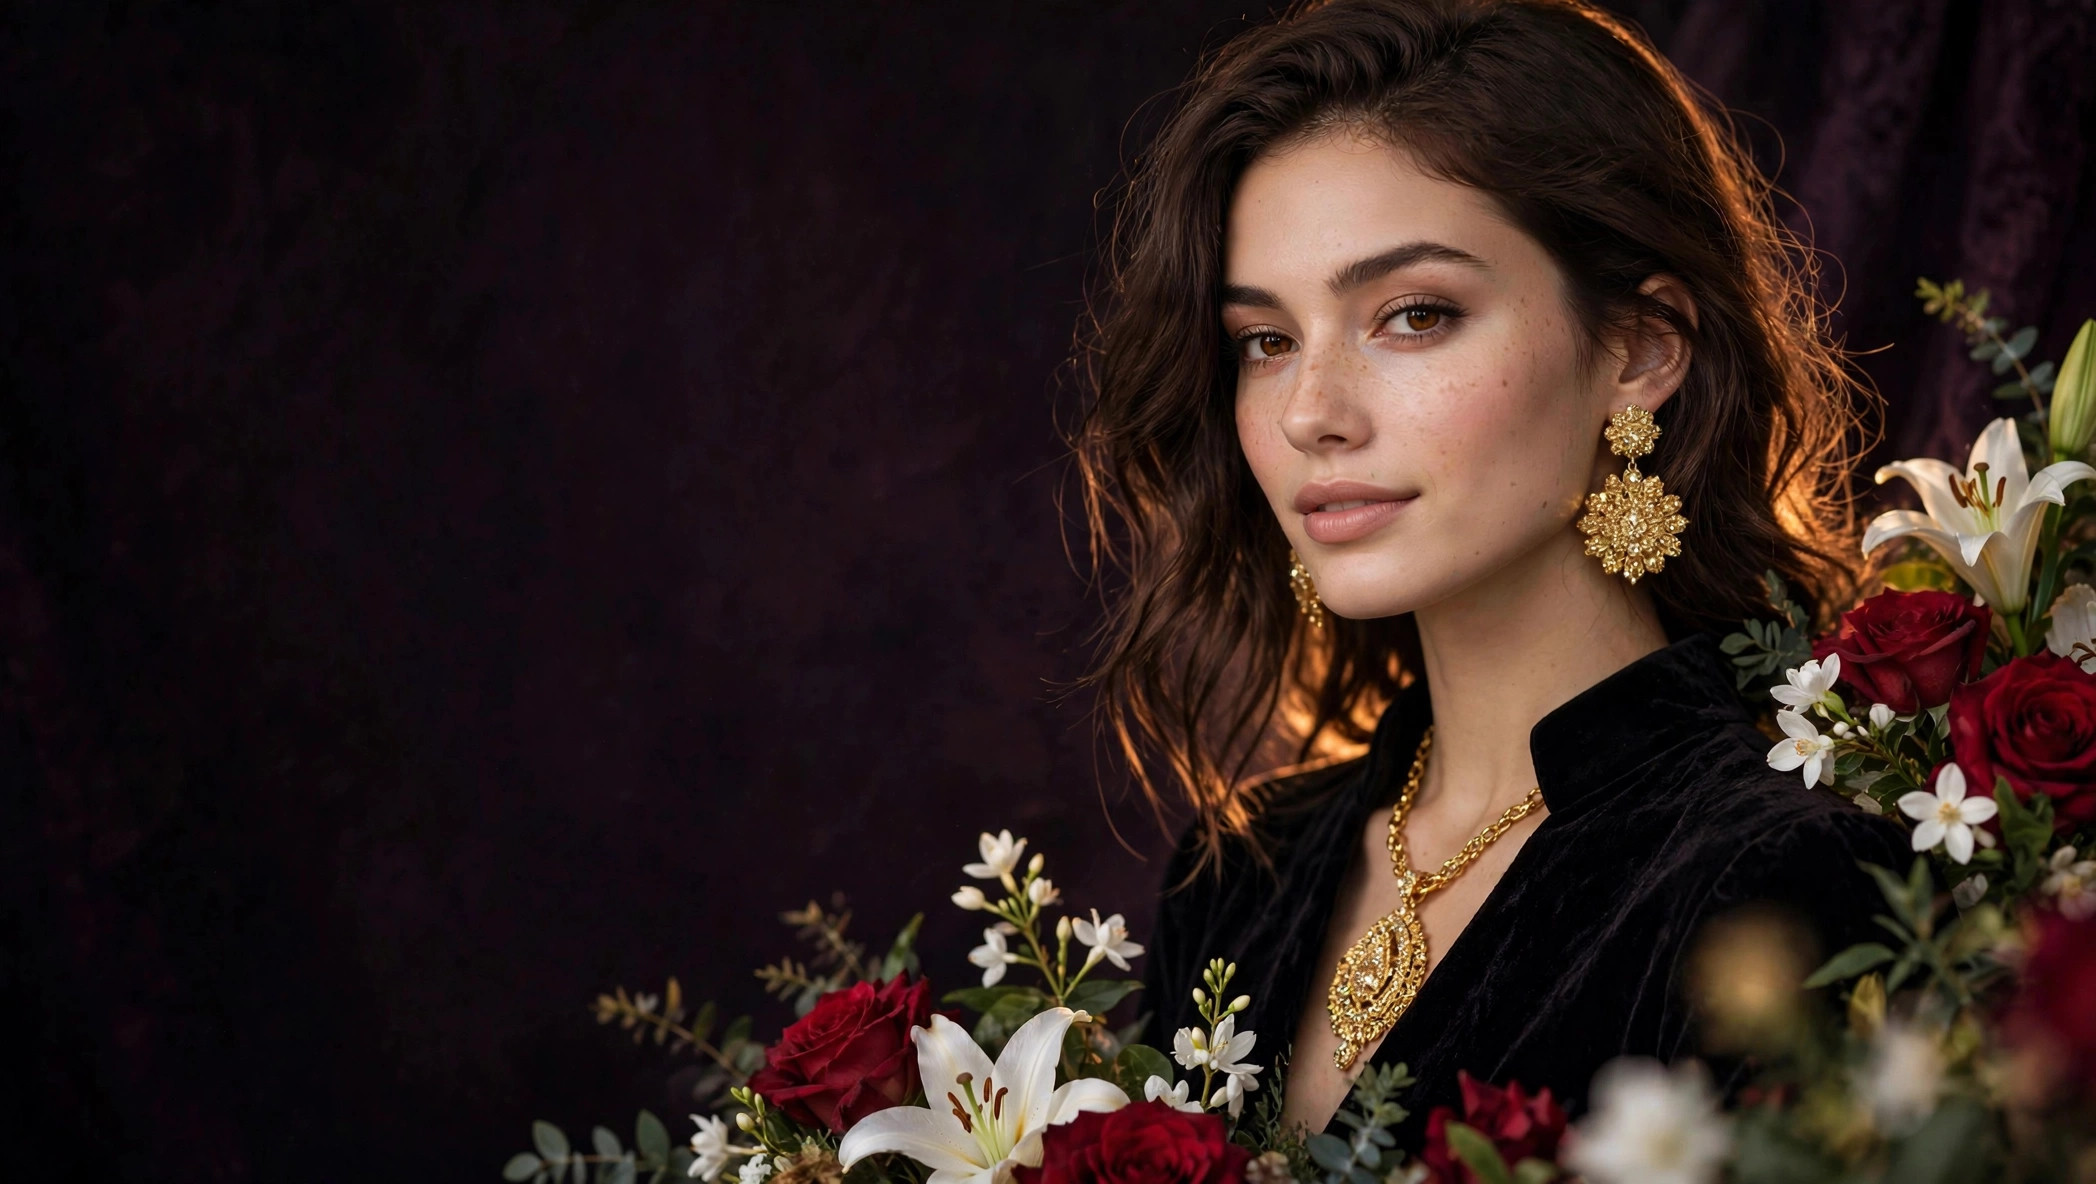
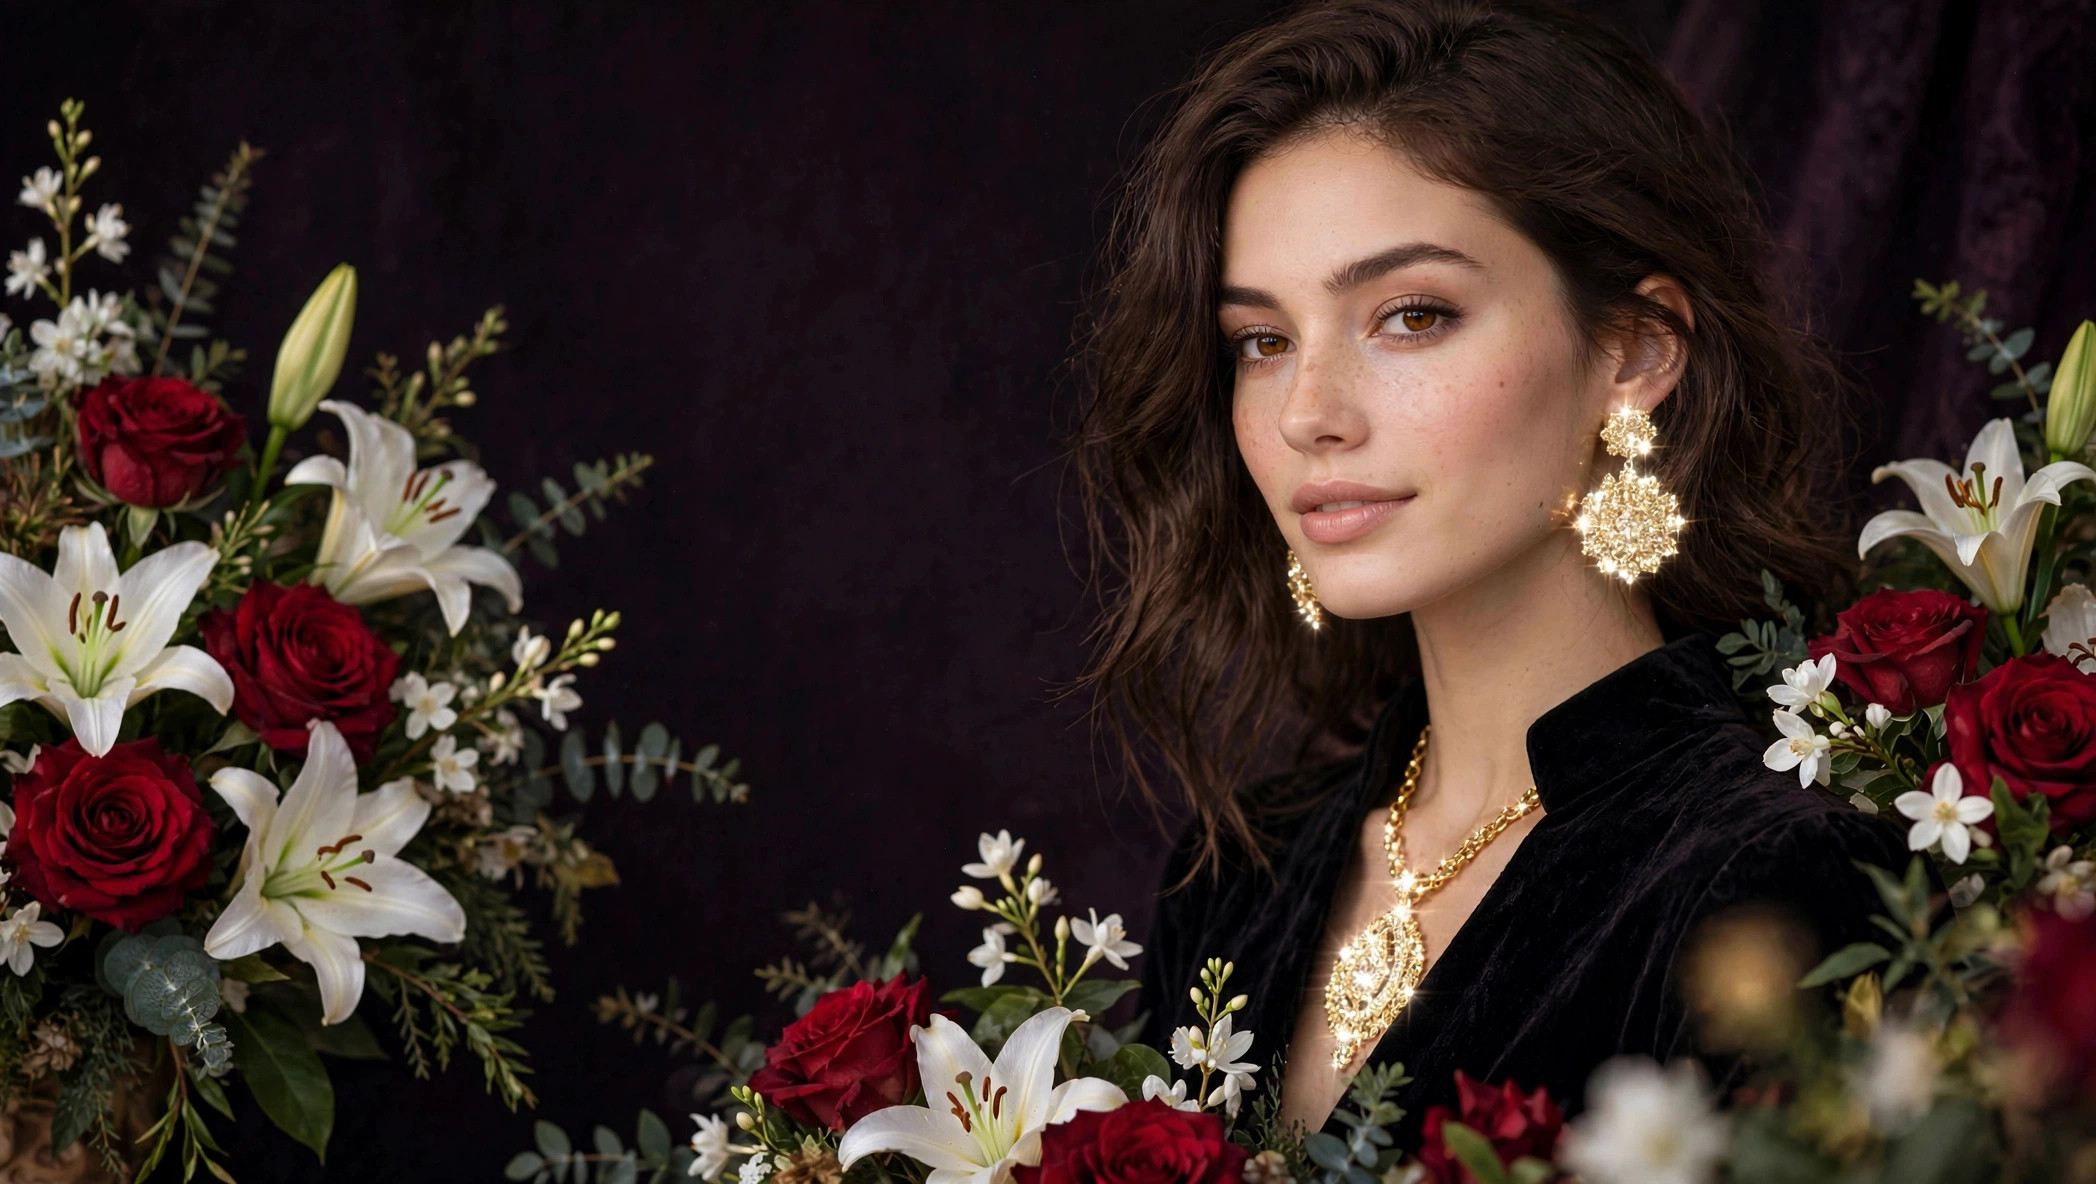
Hero art direction: new model image (bright clean face, glitter jewelry, center flowers), text fully left + gold eyebrow, CSS v9, gif v3

diff --git a/index.html b/index.html
@@ -12,7 +12,7 @@
 <link rel="apple-touch-icon" href="/assets/images/apple-touch-icon.png">
 <link rel="preconnect" href="https://fonts.googleapis.com">
 <link href="https://fonts.googleapis.com/css2?family=Playfair+Display:ital,wght@0,600;0,700;1,600&family=Inter:wght@400;500;600;700&display=swap" rel="stylesheet">
-<link rel="stylesheet" href="/assets/css/main.css?v=8">
+<link rel="stylesheet" href="/assets/css/main.css?v=9">
 <script type="application/ld+json">
 {"@context":"https://schema.org","@type":"WebSite","name":"QA Affiliate","description":"Women's product discovery and affiliate platform","potentialAction":{"@type":"SearchAction","target":"/products.html?q={query}","query-input":"required name=query"}}
 </script>
@@ -22,7 +22,7 @@
 
 <section class="hero">
   <div class="hero-bg" aria-hidden="true">
-    <img class="gif-anim" src="/assets/images/hero-model.gif?v=2" alt="" fetchpriority="high" decoding="async">
+    <img class="gif-anim" src="/assets/images/hero-model.gif?v=3" alt="" fetchpriority="high" decoding="async">
     <img class="gif-fallback" src="/assets/images/hero-model.webp" onerror="this.onerror=null;this.src='/assets/images/hero-model.jpg'" alt="" loading="lazy">
   </div>
   <div class="hero-overlay" aria-hidden="true"></div>
@@ -35,6 +35,7 @@
   <span class="petal p7" aria-hidden="true"></span>
   <span class="petal p8" aria-hidden="true"></span>
   <div class="container hero-copy">
+    <p class="hero-eyebrow">Curated for her</p>
     <h1>Discover women's products <em>worth your money.</em></h1>
     <p>Trending fashion, beauty, skincare and lifestyle finds — researched from real merchant data, reviewed by editors, and linked transparently so you always know exactly what you're clicking.</p>
     <div class="hero-cta">

diff --git a/assets/css/main.css b/assets/css/main.css
@@ -312,7 +312,9 @@ table.compare th{background:var(--plum);color:#fff;font-weight:600}
 .hero-bg .gif-fallback{display:none}
 .hero-overlay{position:absolute;inset:0;z-index:1;background:linear-gradient(100deg,rgba(26,15,20,.97) 0%,rgba(26,15,20,.90) 26%,rgba(26,15,20,.55) 42%,rgba(26,15,20,.18) 54%,rgba(26,15,20,0) 64%),linear-gradient(to top,rgba(26,15,20,.94) 0%,rgba(26,15,20,0) 26%),linear-gradient(to bottom,rgba(26,15,20,.5) 0%,rgba(26,15,20,0) 20%)}
 .hero-copy{position:relative;z-index:3;max-width:min(300px,26vw)}
-.hero h1{font-size:clamp(1.7rem,3vw,2.3rem);max-width:100%}
+@media(min-width:901px){.hero>.container{margin-left:6%;margin-right:auto}}
+.hero-eyebrow{font-size:.72rem;letter-spacing:.42em;text-transform:uppercase;color:var(--gold);margin:0 0 16px;font-weight:600}
+.hero h1{font-size:clamp(1.7rem,3vw,2.3rem);max-width:100%;line-height:1.12}
 .hero h1{text-shadow:0 2px 26px rgba(0,0,0,.6)}
 .hero p{text-shadow:0 1px 14px rgba(0,0,0,.6)}
 .hero-cta .btn-ghost{border-color:rgba(247,239,229,.45);color:#F7EFE5}

diff --git a/category.html b/category.html
@@ -8,7 +8,7 @@
 <link rel="icon" type="image/png" href="/assets/images/favicon-64.png">
 <link rel="preconnect" href="https://fonts.googleapis.com">
 <link href="https://fonts.googleapis.com/css2?family=Playfair+Display:ital,wght@0,600;0,700;1,600&family=Inter:wght@400;500;600;700&display=swap" rel="stylesheet">
-<link rel="stylesheet" href="/assets/css/main.css?v=8">
+<link rel="stylesheet" href="/assets/css/main.css?v=9">
 </head>
 <body data-page="category">
 <div data-site-header></div>

diff --git a/trending.html b/trending.html
@@ -8,7 +8,7 @@
 <link rel="icon" type="image/png" href="/assets/images/favicon-64.png">
 <link rel="preconnect" href="https://fonts.googleapis.com">
 <link href="https://fonts.googleapis.com/css2?family=Playfair+Display:ital,wght@0,600;0,700;1,600&family=Inter:wght@400;500;600;700&display=swap" rel="stylesheet">
-<link rel="stylesheet" href="/assets/css/main.css?v=8">
+<link rel="stylesheet" href="/assets/css/main.css?v=9">
 </head>
 <body data-page="trending">
 <div data-site-header></div>

diff --git a/product.html b/product.html
@@ -8,7 +8,7 @@
 <link rel="icon" type="image/png" href="/assets/images/favicon-64.png">
 <link rel="preconnect" href="https://fonts.googleapis.com">
 <link href="https://fonts.googleapis.com/css2?family=Playfair+Display:ital,wght@0,600;0,700;1,600&family=Inter:wght@400;500;600;700&display=swap" rel="stylesheet">
-<link rel="stylesheet" href="/assets/css/main.css?v=8">
+<link rel="stylesheet" href="/assets/css/main.css?v=9">
 </head>
 <body data-page="product">
 <div data-site-header></div>

diff --git a/products.html b/products.html
@@ -8,7 +8,7 @@
 <link rel="icon" type="image/png" href="/assets/images/favicon-64.png">
 <link rel="preconnect" href="https://fonts.googleapis.com">
 <link href="https://fonts.googleapis.com/css2?family=Playfair+Display:ital,wght@0,600;0,700;1,600&family=Inter:wght@400;500;600;700&display=swap" rel="stylesheet">
-<link rel="stylesheet" href="/assets/css/main.css?v=8">
+<link rel="stylesheet" href="/assets/css/main.css?v=9">
 </head>
 <body data-page="browse">
 <div data-site-header></div>

diff --git a/about.html b/about.html
@@ -8,7 +8,7 @@
 <link rel="icon" type="image/png" href="/assets/images/favicon-64.png">
 <link rel="preconnect" href="https://fonts.googleapis.com">
 <link href="https://fonts.googleapis.com/css2?family=Playfair+Display:ital,wght@0,600;0,700;1,600&family=Inter:wght@400;500;600;700&display=swap" rel="stylesheet">
-<link rel="stylesheet" href="/assets/css/main.css?v=8">
+<link rel="stylesheet" href="/assets/css/main.css?v=9">
 </head>
 <body>
 <div data-site-header></div>

diff --git a/contact.html b/contact.html
@@ -8,7 +8,7 @@
 <link rel="icon" type="image/png" href="/assets/images/favicon-64.png">
 <link rel="preconnect" href="https://fonts.googleapis.com">
 <link href="https://fonts.googleapis.com/css2?family=Playfair+Display:ital,wght@0,600;0,700;1,600&family=Inter:wght@400;500;600;700&display=swap" rel="stylesheet">
-<link rel="stylesheet" href="/assets/css/main.css?v=8">
+<link rel="stylesheet" href="/assets/css/main.css?v=9">
 </head>
 <body>
 <div data-site-header></div>

diff --git a/deals.html b/deals.html
@@ -8,7 +8,7 @@
 <link rel="icon" type="image/png" href="/assets/images/favicon-64.png">
 <link rel="preconnect" href="https://fonts.googleapis.com">
 <link href="https://fonts.googleapis.com/css2?family=Playfair+Display:ital,wght@0,600;0,700;1,600&family=Inter:wght@400;500;600;700&display=swap" rel="stylesheet">
-<link rel="stylesheet" href="/assets/css/main.css?v=8">
+<link rel="stylesheet" href="/assets/css/main.css?v=9">
 </head>
 <body>
 <div data-site-header></div>

diff --git a/faq.html b/faq.html
@@ -8,7 +8,7 @@
 <link rel="icon" type="image/png" href="/assets/images/favicon-64.png">
 <link rel="preconnect" href="https://fonts.googleapis.com">
 <link href="https://fonts.googleapis.com/css2?family=Playfair+Display:ital,wght@0,600;0,700;1,600&family=Inter:wght@400;500;600;700&display=swap" rel="stylesheet">
-<link rel="stylesheet" href="/assets/css/main.css?v=8">
+<link rel="stylesheet" href="/assets/css/main.css?v=9">
 </head>
 <body>
 <div data-site-header></div>

diff --git a/guides.html b/guides.html
@@ -8,7 +8,7 @@
 <link rel="icon" type="image/png" href="/assets/images/favicon-64.png">
 <link rel="preconnect" href="https://fonts.googleapis.com">
 <link href="https://fonts.googleapis.com/css2?family=Playfair+Display:ital,wght@0,600;0,700;1,600&family=Inter:wght@400;500;600;700&display=swap" rel="stylesheet">
-<link rel="stylesheet" href="/assets/css/main.css?v=8">
+<link rel="stylesheet" href="/assets/css/main.css?v=9">
 </head>
 <body>
 <div data-site-header></div>
